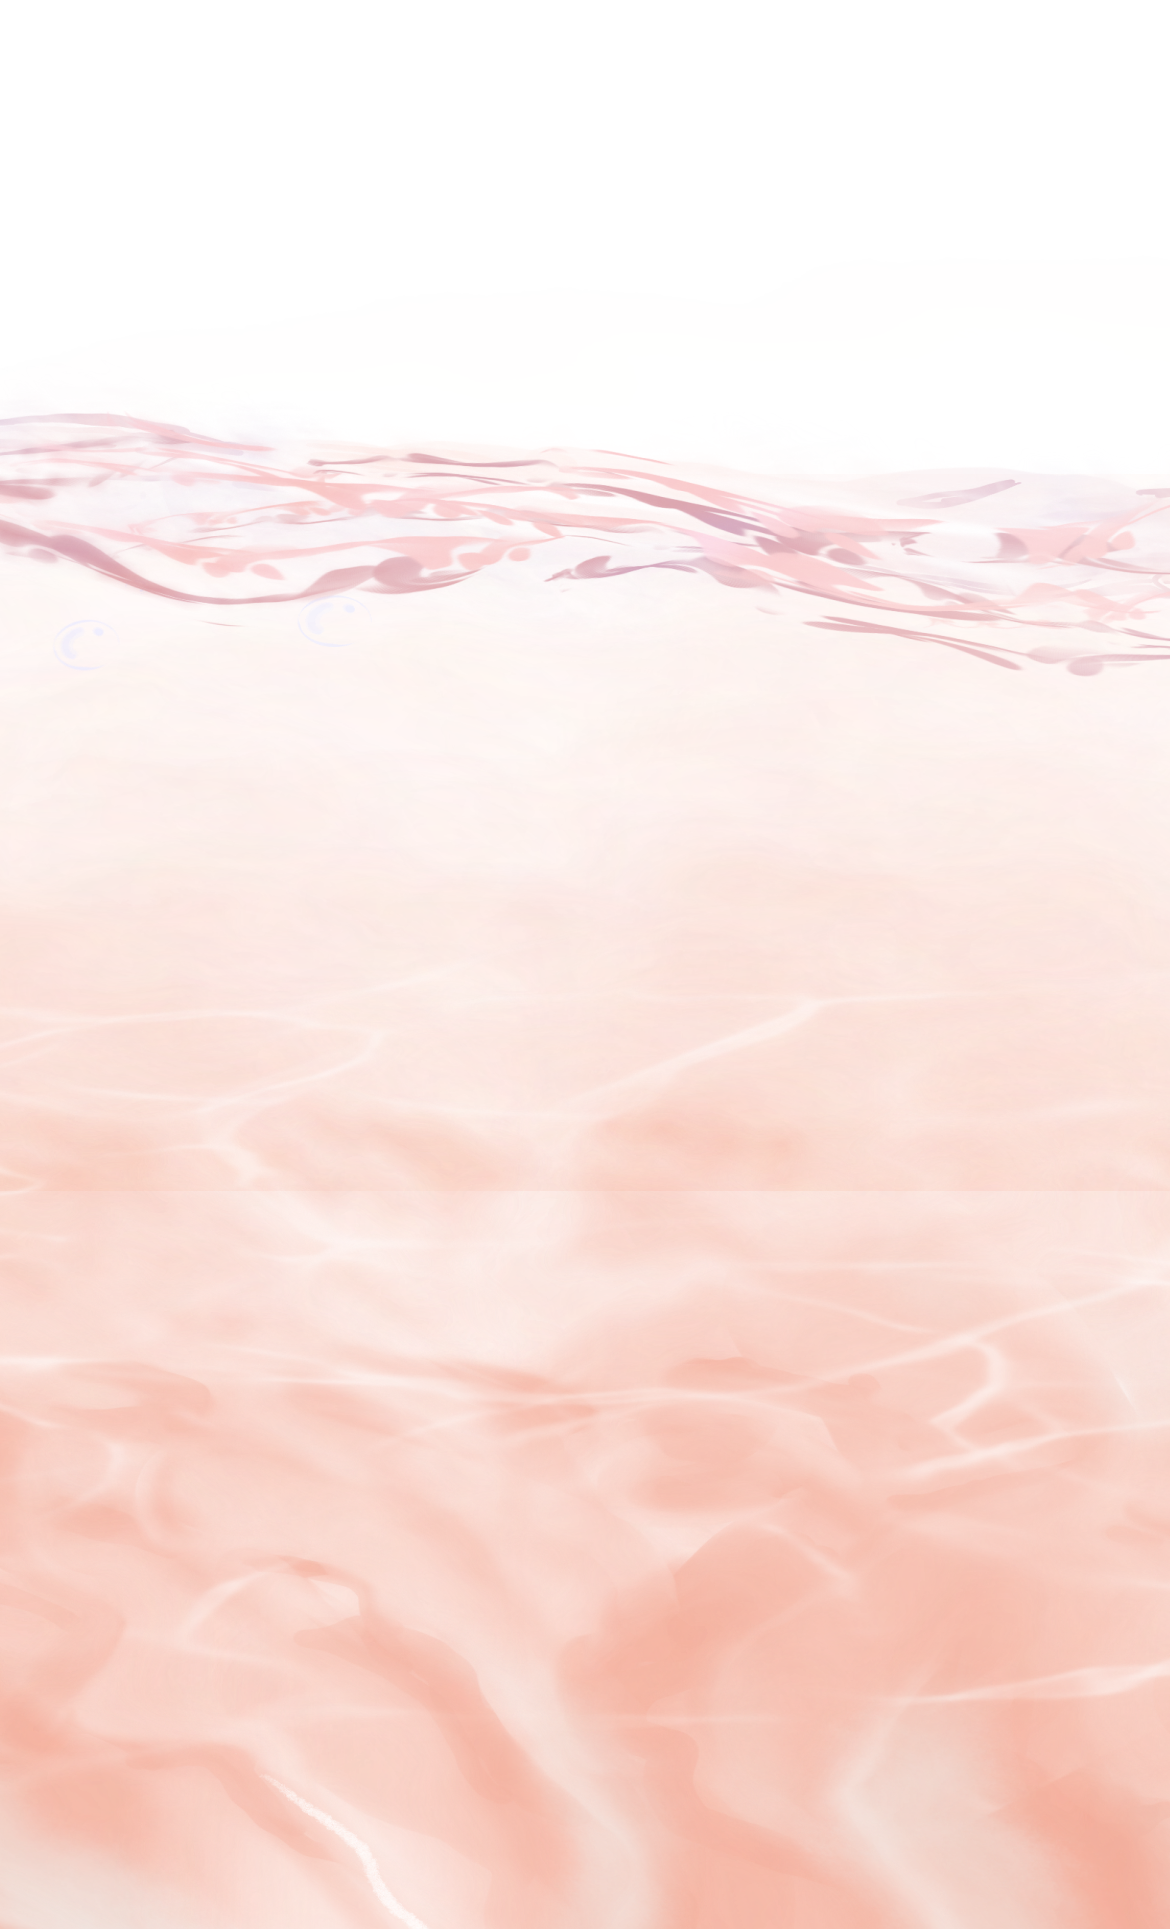
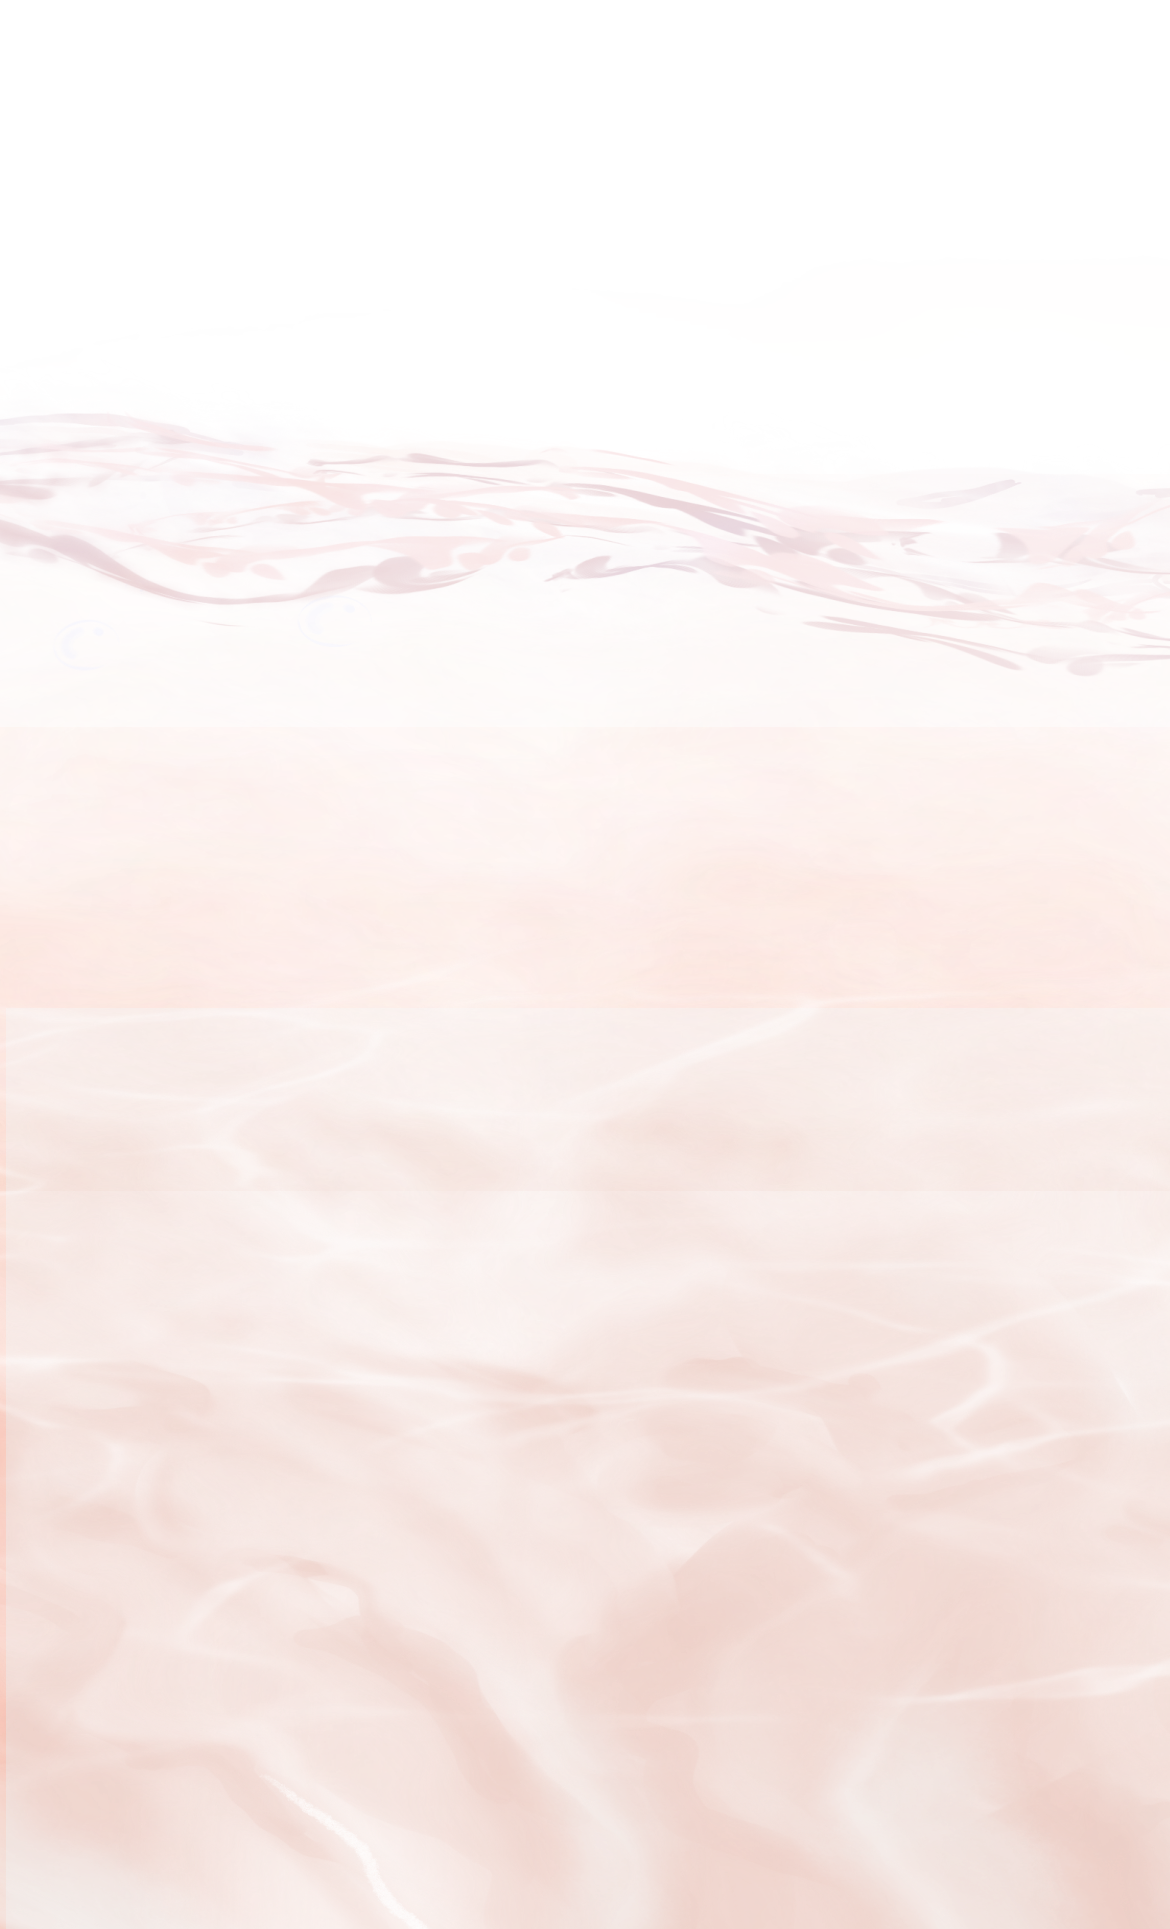
clipbord created

diff --git a/src/pages/steps/Swipe.jsx b/src/pages/steps/Swipe.jsx
@@ -2,6 +2,7 @@ import React, { useRef, useState } from 'react';
 import CustomButton from '../shared/button';
 import step1 from '../../assets/img/step01.png'
 import step2 from '../../assets/img/step02.png'
+import Clipboard from '../shared/clipbord';
 import Title from '../shared/title';
 // Import Swiper React components
 import { Swiper, SwiperSlide } from 'swiper/react';
@@ -46,7 +47,7 @@ export default function Swipe() {
             className='my-4'
           />
           <h5 className='w-[260px] h-[140px] text-center text-white text-base font-bold leading-[35px] tracking-wide'>SOLOTORIのInstagramの公式アカウント(@solotori_office)をフォローしてください!</h5>
-          <CustomButton text={'公式アカウント'} style={{ fontWeight: '700' }} />
+          <CustomButton text={'公式アカウント'} style={{ fontWeight: '700' }} link="https://www.instagram.com/solotori_official/" />
           <span className='h-[60px]'></span>
         </SwiperSlide>
         {/* 2 */}
@@ -90,7 +91,7 @@ export default function Swipe() {
             <div className=" text-center text-xs font-bold leading-[20px]">#NewNormal</div>
           </div>
           <h5 className='w-[268px] h-[140px] text-center text-white text-base font-bold leading-[35px] tracking-wide'><br />　　　　　　　全てのハッシュタグをつけて、撮影した素敵な世界観の写真をインスタに投稿してくださいい!</h5>
-          <CustomButton text={'＃一括でコピー'} style={{ fontWeight: '700' }} />
+          <Clipboard />
           <span className='h-[60px]'></span>
         </SwiperSlide>
       </Swiper >

diff --git a/src/pages/home/menu/Menu.jsx b/src/pages/home/menu/Menu.jsx
@@ -1,5 +1,6 @@
 import React, { useState } from "react";
 import "./Menu.css";
+import Shell from "../../shared/shell";
 
 function Menu() {
   // track the menu is open or not
@@ -23,13 +24,35 @@ function Menu() {
 
       {/* items container */}
       <div className={`menu-items-container ${isMenuOpen ? "open" : ""}`}>
-        <div className="menu-items text-[32px]">
-          <div>ひとり旅の魅力</div>
-          <div>SOLOTORIとは？</div>
-          <div>クリエイターの良さ</div>
-          <div>応募方法</div>
-          <div>みんなの旅</div>
-          <div>応募要項</div>
+        <div className="menu-items">
+        <div className="flex items-center gap-2">
+            <Shell />
+            Top
+          </div>
+          <div className="flex items-center gap-2">
+            <Shell />
+            ひとり旅の魅力
+          </div>
+          <div className="flex items-center gap-2">
+            <Shell />
+            SOLOTORIとは？
+          </div>
+          <div className="flex items-center gap-2">
+            <Shell />
+            クリエイターの良さ
+          </div>
+          <div className="flex items-center gap-2">
+            <Shell />
+            応募方法
+          </div>
+          <div className="flex items-center gap-2">
+            <Shell />
+            みんなの旅
+          </div>
+          <div className="flex items-center gap-2">
+            <Shell />
+            応募要項
+          </div>
         </div>
       </div>
     </div>

diff --git a/src/pages/shared/clipbord.jsx b/src/pages/shared/clipbord.jsx
@@ -1,0 +1,46 @@
+import React, { useRef } from 'react';
+
+const Clipboard = () => {
+    const textToCopy = '#SOLOTORI #一人旅募集中 #世界観同化 #NewNormal';
+    const buttonRef = useRef(null);
+
+    const handleCopyClick = () => {
+        const textarea = document.createElement('textarea');
+        textarea.value = textToCopy;
+        document.body.appendChild(textarea);
+
+        textarea.select();
+        document.execCommand('copy');
+
+        document.body.removeChild(textarea);
+
+        buttonRef.current.innerText = '＃コピーした！';
+        // popup message
+        window.alert('スペでの＃をコピーした！');
+    };
+
+    return (
+        <button
+            ref={buttonRef}
+            onClick={handleCopyClick}
+            style={{
+                borderRadius: '40px',
+                height: '54px',
+                width: '250px',
+                border: '2px solid #FFF',
+                color: '#FFF',
+                fontSize: '18px',
+                fontWeight: 500,
+                lineHeight: '38px',
+                letterSpacing: '0.36px',
+                cursor: 'pointer',
+                background: '#D13200',
+                marginTop: '10px',
+            }}
+        >
+            ＃一括でコピー
+        </button>
+    );
+};
+
+export default Clipboard;

diff --git a/src/pages/home/contents/Content3.jsx b/src/pages/home/contents/Content3.jsx
@@ -1,6 +1,6 @@
 import React from "react";
 // import "./Content.css";
-import cloud003 from "../../../assets/img/cloud001.png";
+import cloud003 from "../../../assets/img/cloud003.png";
 import Shell from "../../shared/shell.jsx";
 import Title from "../../shared/title.jsx";
 
@@ -16,12 +16,12 @@ function Content3() {
   return (
     <div className="relative h-[800px] my-[80px] overflow-hidden">
       <div
-        className="absolute inset-0 bg-cover bg-center"
+        className="absolute inset-0 w-screen bg-cover bg-center"
         style={{ backgroundImage: `url(${cloud003})` }}
       />
-      <div className="pt-[90px]">
+      <div className="pt-[170px]">
         <Title text={<span>SOLOTORIの<br />クリエイターの良さ</span>} marginLeft="-25px" marginLeftTittle="30px" />
-        <div className="content absolute inset-0 flex justify-center pt-[80px]">
+        <div className="content absolute inset-0 flex justify-center pt-[120px]">
           <p>
             SOLOTORIのクリエイターは一人旅であった、あなたの思いや素敵なことを投稿しているだよ
           </p>

diff --git a/src/pages/home/contents/Content2.jsx b/src/pages/home/contents/Content2.jsx
@@ -8,14 +8,14 @@ import CustomButton from "../../shared/button";
 function Content2() {
 
   return (
-    <div className="relative h-[800px] my-[80px] overflow-hidden">
+    <div className="relative h-[700px] my-[80px] overflow-hidden">
       <div
         className="absolute inset-0 bg-cover bg-center"
         style={{ backgroundImage: `url(${cloud002})` }}
       />
       <div className="pt-[90px]">
         <Title text="SOLOTORIとは？" marginLeft="-20px" marginLeftTittle="30px" />
-        <div className="content absolute inset-0 flex justify-center">
+        <div className="content absolute inset-0 pt-10 flex justify-center">
           <p>「ひとり旅をもっと自由に」を目指し、ひとり旅のメディアです。</p>
           <p>今後地域とのマッチングまでサポートするシステムにリニューアル予定。</p>
           <p>2022年経産省始動プログラムに採択。</p>

diff --git a/src/pages/home/menu/Menu.css b/src/pages/home/menu/Menu.css
@@ -42,7 +42,7 @@
 
 /* Hamburger icon animations */
 .hamburger-menu.open .bar:nth-child(1) {
-    transform: rotate(-45deg) translate(-5px, 6px);
+    transform: rotate(-45deg) translate(-7px, 7px);
 }
 
 .hamburger-menu.open .bar:nth-child(2) {
@@ -50,7 +50,7 @@
 }
 
 .hamburger-menu.open .bar:nth-child(3) {
-    transform: rotate(45deg) translate(-5px, -6px);
+    transform: rotate(45deg) translate(-7px, -7px);
 }
 
 /* Menu items container and list */
@@ -80,14 +80,16 @@
 .menu-items {
     display: flex;
     flex-direction: column;
-    align-items: center;
+    align-items: start;
     justify-content: center;
+    align-content: space-between;
+    padding: 20% 5%;
     width: 100%;
     font-size: 32px;
     font-style: normal;
     font-weight: 700;
-    line-height: 209.236%;
-    letter-spacing: 1px;
+    line-height: 220%;
+    letter-spacing: 0.75px;
 }
 
 /* Slide-in animation */

diff --git a/src/pages/home/kv/Bg.jsx b/src/pages/home/kv/Bg.jsx
@@ -39,10 +39,24 @@ const KvBg = () => {
                     left: 0,
                     right: 0,
                     bottom: 0,
-                    zIndex: -50,
+                    zIndex: -10,
                     opacity: "0.7",
 
+                }} />
+            <animated.img
+                src={cloud01}
+                style={{
+                    display: "block",
+                    height: "400px",
+                    width: "100%",
+                    marginLeft: "180px",
+                    marginTop: "660px",
+                    position: "absolute",
+                    transform: offset.to((o) => `translateY(-${o * 0.1}px)`),
+                    zIndex: -1,
+                    opacity: "0.5",
                 }}
+                alt="Cloud 01"
             />
 
             {/* Cloud Layers for KV Area */}

diff --git a/src/pages/home/sub/Sub.jsx b/src/pages/home/sub/Sub.jsx
@@ -10,7 +10,7 @@ function Sub() {
 
   return (
     <section className="relative my-[50px] py-[120px]">
-      <h2 className="text-center absolute top-[350px] mx-10  z-[10]  text-[64px] font-bold custom-text-shadow ">一人旅をしよう</h2>
+      <h2 className="text-center absolute top-[350px] mx-10 mt-32  z-[10]  text-[64px] font-bold custom-text-shadow ">一人旅をしよう</h2>
       <div className="relative place-items-center">
         <SubSwipe />
         <Spin />
@@ -18,7 +18,7 @@ function Sub() {
       <img
         src={SubBg}
         alt="Under Water画像"
-        className="sub-bg absolute top-[-65px] w-full h-full object-cover mix-blend-hard-light z-0 opacity-[20%]"
+        className="sub-bg absolute top-[15px] w-100% h-[1000px]  mix-blend-hard-light z-[-15] opacity-30"
       />
     </section>
   );

diff --git a/src/pages/shared/shell.jsx b/src/pages/shared/shell.jsx
@@ -16,7 +16,7 @@ function Shell({ whiteOutline }) {
                 stroke={whiteOutline ? "#FFFFFF" : "#D13200"}
                 strokeLinecap="round"
                 strokeLinejoin="round"
-                fill={whiteOutline ? "none" : "#D13200"}
+                fill={whiteOutline ? "none" : "none"}
             />
         </svg>
     );

diff --git a/src/pages/shared/button.jsx b/src/pages/shared/button.jsx
@@ -11,7 +11,7 @@ const getButtonStyles = () => ({
         border: '2px solid #FFF',
         background: '#D13200',
         justifyContent: 'center',
-        gap: '5px', // Adjust the gap between the Shell icon and text
+        gap: '5px', //  between the Shell and text
     },
     buttonText: {
         color: '#FFF',

diff --git a/src/pages/contact/Contact.jsx b/src/pages/contact/Contact.jsx
@@ -17,7 +17,7 @@ const ContactForm = () => {
 
   const handleSubmit = (e) => {
     e.preventDefault();
-    // Handle form submission logic here
+    // form submission logic 
     console.log('Form submitted:', formData);
   };
 

diff --git a/src/pages/home/sub/Sub.css b/src/pages/home/sub/Sub.css
@@ -19,6 +19,3 @@
     height: 50%;
 }
 
-.sub-bg {
-    mix-blend-mode: soft-light;
-}
